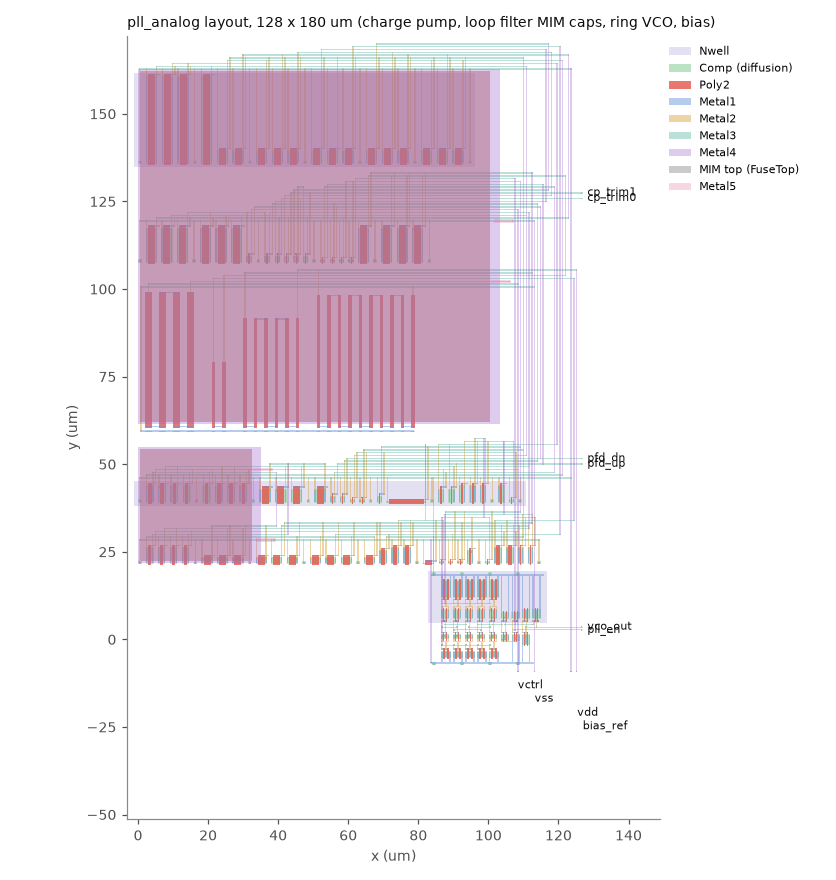
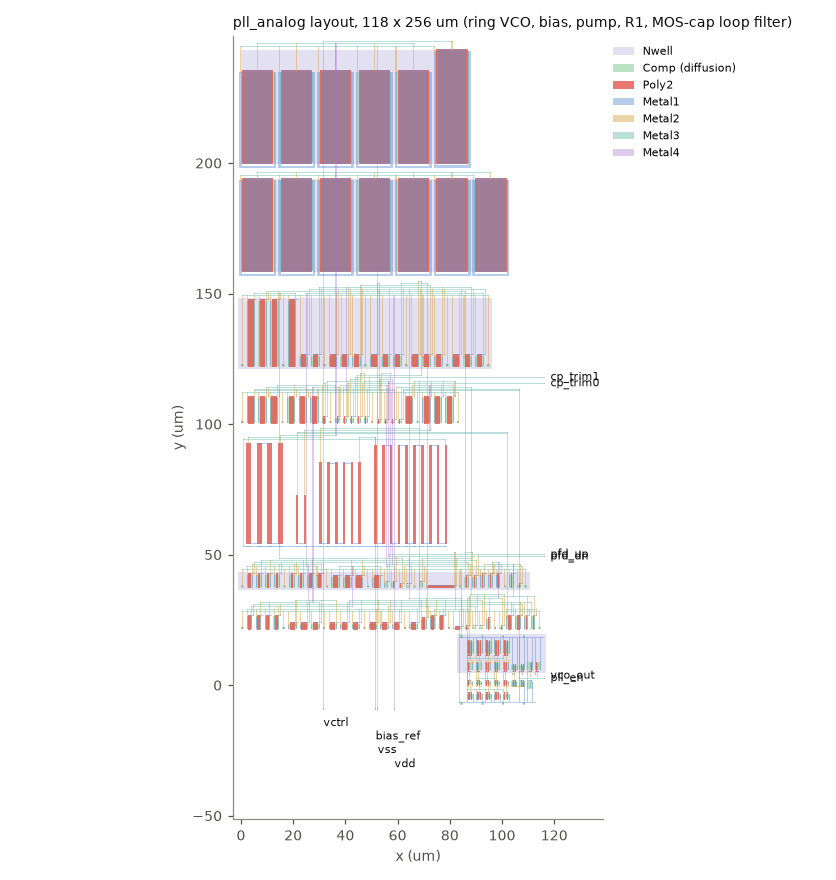
GOALS.md: the tile hardens and passes precheck; datasheet drops the standalone-harden pins; review figures add the tile

diff --git a/docs/review/make_figures.py b/docs/review/make_figures.py
@@ -54,12 +54,13 @@ def layout() -> None:
             ax.add_collection(PolyCollection(pts, facecolors=colour, edgecolors="none",
                                              alpha=alpha, label=name))
     bottom = sorted((p for p in abstract["pins"] if p["y"] < 0), key=lambda p: p["x"])
+    x_right = abstract["bbox_um"][2]
     for pin in abstract["pins"]:
         low = pin in bottom
         ax.annotate(pin["name"], (pin["x"], pin["y"]), fontsize=7, color=INK,
-                    xytext=(4 if pin["x"] > 120 else 0,
+                    xytext=(4 if pin["x"] > x_right - 2 else 0,
                             -9 - 9 * bottom.index(pin) if low else 0),
-                    textcoords="offset points", ha="left" if pin["x"] > 120 or low else "center",
+                    textcoords="offset points", ha="left" if pin["x"] > x_right - 2 or low else "center",
                     va="center")
     x0, y0, x1, y1 = abstract["bbox_um"]
     ax.set_xlim(x0 - 2, x1 + 22)
@@ -69,11 +70,43 @@ def layout() -> None:
     ax.set_xlabel("x (um)")
     ax.set_ylabel("y (um)")
     ax.set_title(f"pll_analog layout, {x1 - x0:.0f} x {y1 - y0:.0f} um "
-                 "(charge pump, loop filter MIM caps, ring VCO, bias)",
+                 "(ring VCO, bias, pump, R1, MOS-cap loop filter)",
                  fontsize=9, color=INK, loc="left")
     ax.legend(loc="upper left", bbox_to_anchor=(1.0, 1.0), fontsize=7, frameon=False)
     fig.tight_layout()
     fig.savefig(OUT / "analog-layout.png")
+    plt.close(fig)
+
+
+def tile() -> None:
+    """The hardened tile, as committed in gds/ (Metal1-4 and the macro)."""
+    gds = ROOT / "gds" / "tt_um_ihsan_sa_pll.gds"
+    if not gds.is_file():
+        return
+    lib = gdstk.read_gds(str(gds))
+    top = lib.top_level()[0]
+    polys = top.get_polygons()
+    fig, ax = plt.subplots(figsize=(8.4, 8.0))
+    for name, layer, colour, alpha in LAYERS:
+        if layer in (21, 22, 30):
+            continue  # wells, COMP and poly hide the routing at this scale
+        pts = [p.points for p in polys if p.layer == layer and p.datatype == 0]
+        if pts:
+            ax.add_collection(PolyCollection(pts, facecolors=colour, edgecolors="none",
+                                             alpha=alpha, label=name))
+    (x0, y0), (x1, y1) = top.bounding_box()
+    ax.set_xlim(x0, x1)
+    ax.set_ylim(y0, y1)
+    ax.set_aspect("equal")
+    ax.grid(False)
+    ax.set_xlabel("x (um)")
+    ax.set_ylabel("y (um)")
+    ax.set_title(f"{top.name}: the 1x2 tile, {x1 - x0:.0f} x {y1 - y0:.0f} um "
+                 "(the analog macro in the middle, standard cells around it)",
+                 fontsize=9, color=INK, loc="left")
+    ax.legend(loc="upper left", bbox_to_anchor=(1.0, 1.0), fontsize=7, frameon=False)
+    fig.tight_layout()
+    fig.savefig(OUT / "tile.png")
     plt.close(fig)
 
 
@@ -155,6 +188,7 @@ def cosim() -> None:
 
 if __name__ == "__main__":
     layout()
+    tile()
     corners()
     cosim()
     print("wrote", ", ".join(p.name for p in sorted(OUT.glob("*.png"))))

diff --git a/GOALS.md b/GOALS.md
@@ -32,7 +32,7 @@ Filed by runs. Each says what done looks like as something a run can check, and 
 
 ### Harden the tile and pass the Tiny Tapeout precheck
 
-- **Status:** open (moved up from Later 2026-10-29; work on it had already started). The first top_harden attempt (2026-10-28) was refused by the engine: an msde top with two clock domains gets no constraints.sdc, and the engine rebuilds `top/` on every run. That fix landed in hive-chip-flow (task 261028-231313-dc59cc1ce9). Top LVS then found `vctrl` shorted to VGND at the analog macro's pin; the short is made by chip-flow's top_harden (its supply pins cross the MIM caps), so the PLL's task 261029-115210 is blocked on the chip-flow fix, carried by hive-chip-flow task 261029-152848-41539943b1.
+- **Status:** open, the last step left is on main (2026-10-30, task 261030-011402). The tile hardens: top_harden, top_drc (magic 0, klayout 0) and top_lvs (unique match) pass, and so does Tiny Tapeout's precheck. The precheck also passes run on the committed `gds/`, `lef/`, `src/project.v` and `info.yaml` themselves. The repository is in the analog template's shape (`blocks/pll/tt/assemble.py`: the real top and RTL in `src/`, an RTL test in `test/`, a 1x2 analog `info.yaml`, the `custom_gds` gds workflow). Getting there took an analog change and three chip-flow fixes. Precheck forbids Metal5 ("KLayout Checks: Forbidden layer Metal5 found"), and a MIM-B cap's top plate is Metal5, so C1/C2 are now MOS caps (cap_nmos_03v3_b), pending the owner's review (`docs/review/README.md`). The chip-flow fixes run from a local copy of the module and are filed as hive-chip-flow work: PR #28, brief 261030-033156 and brief 261030-043908. What's left is the gds, docs and test workflows passing on main.
 - **What:** With the analog layout done, harden the digital half around the analog macro into one tile, run full-tile DRC and LVS, and pass the Tiny Tapeout precheck. Replace the template placeholder in `src/` and the template README with the real design, so the Tiny Tapeout gds, docs and test workflows build and test this design rather than the template.
 - **Done when:** the tile hardens with no DRC or LVS errors, the Tiny Tapeout precheck passes, and the gds, docs and test workflows pass on main with the real design in `src/`.
 

diff --git a/docs/info.md b/docs/info.md
@@ -42,12 +42,8 @@ The digital half closes the loop:
    `ui[7]` high the VCO divided by 16. Locked, the VCO sits at 8 × N times the
    reference.
 4. `uo[1]` is the feedback clock (VCO / 8N), which should match the reference
-   when locked. `uo[3]` and `uo[4]` show the UP and DN pulses for debugging.
+   when locked. `uo[7:3]` are driven low.
 5. To see the loop's control voltage, put a high-impedance probe on `ua[0]`.
-
-In the standalone digital harden, `ui[3]` stands in for the VCO clock and
-`uo[7:5]` echo the enable and trim bits sent to the analog macro. In the full
-tile the VCO is on-chip, and those outputs may be driven low.
 
 ## External hardware
 
